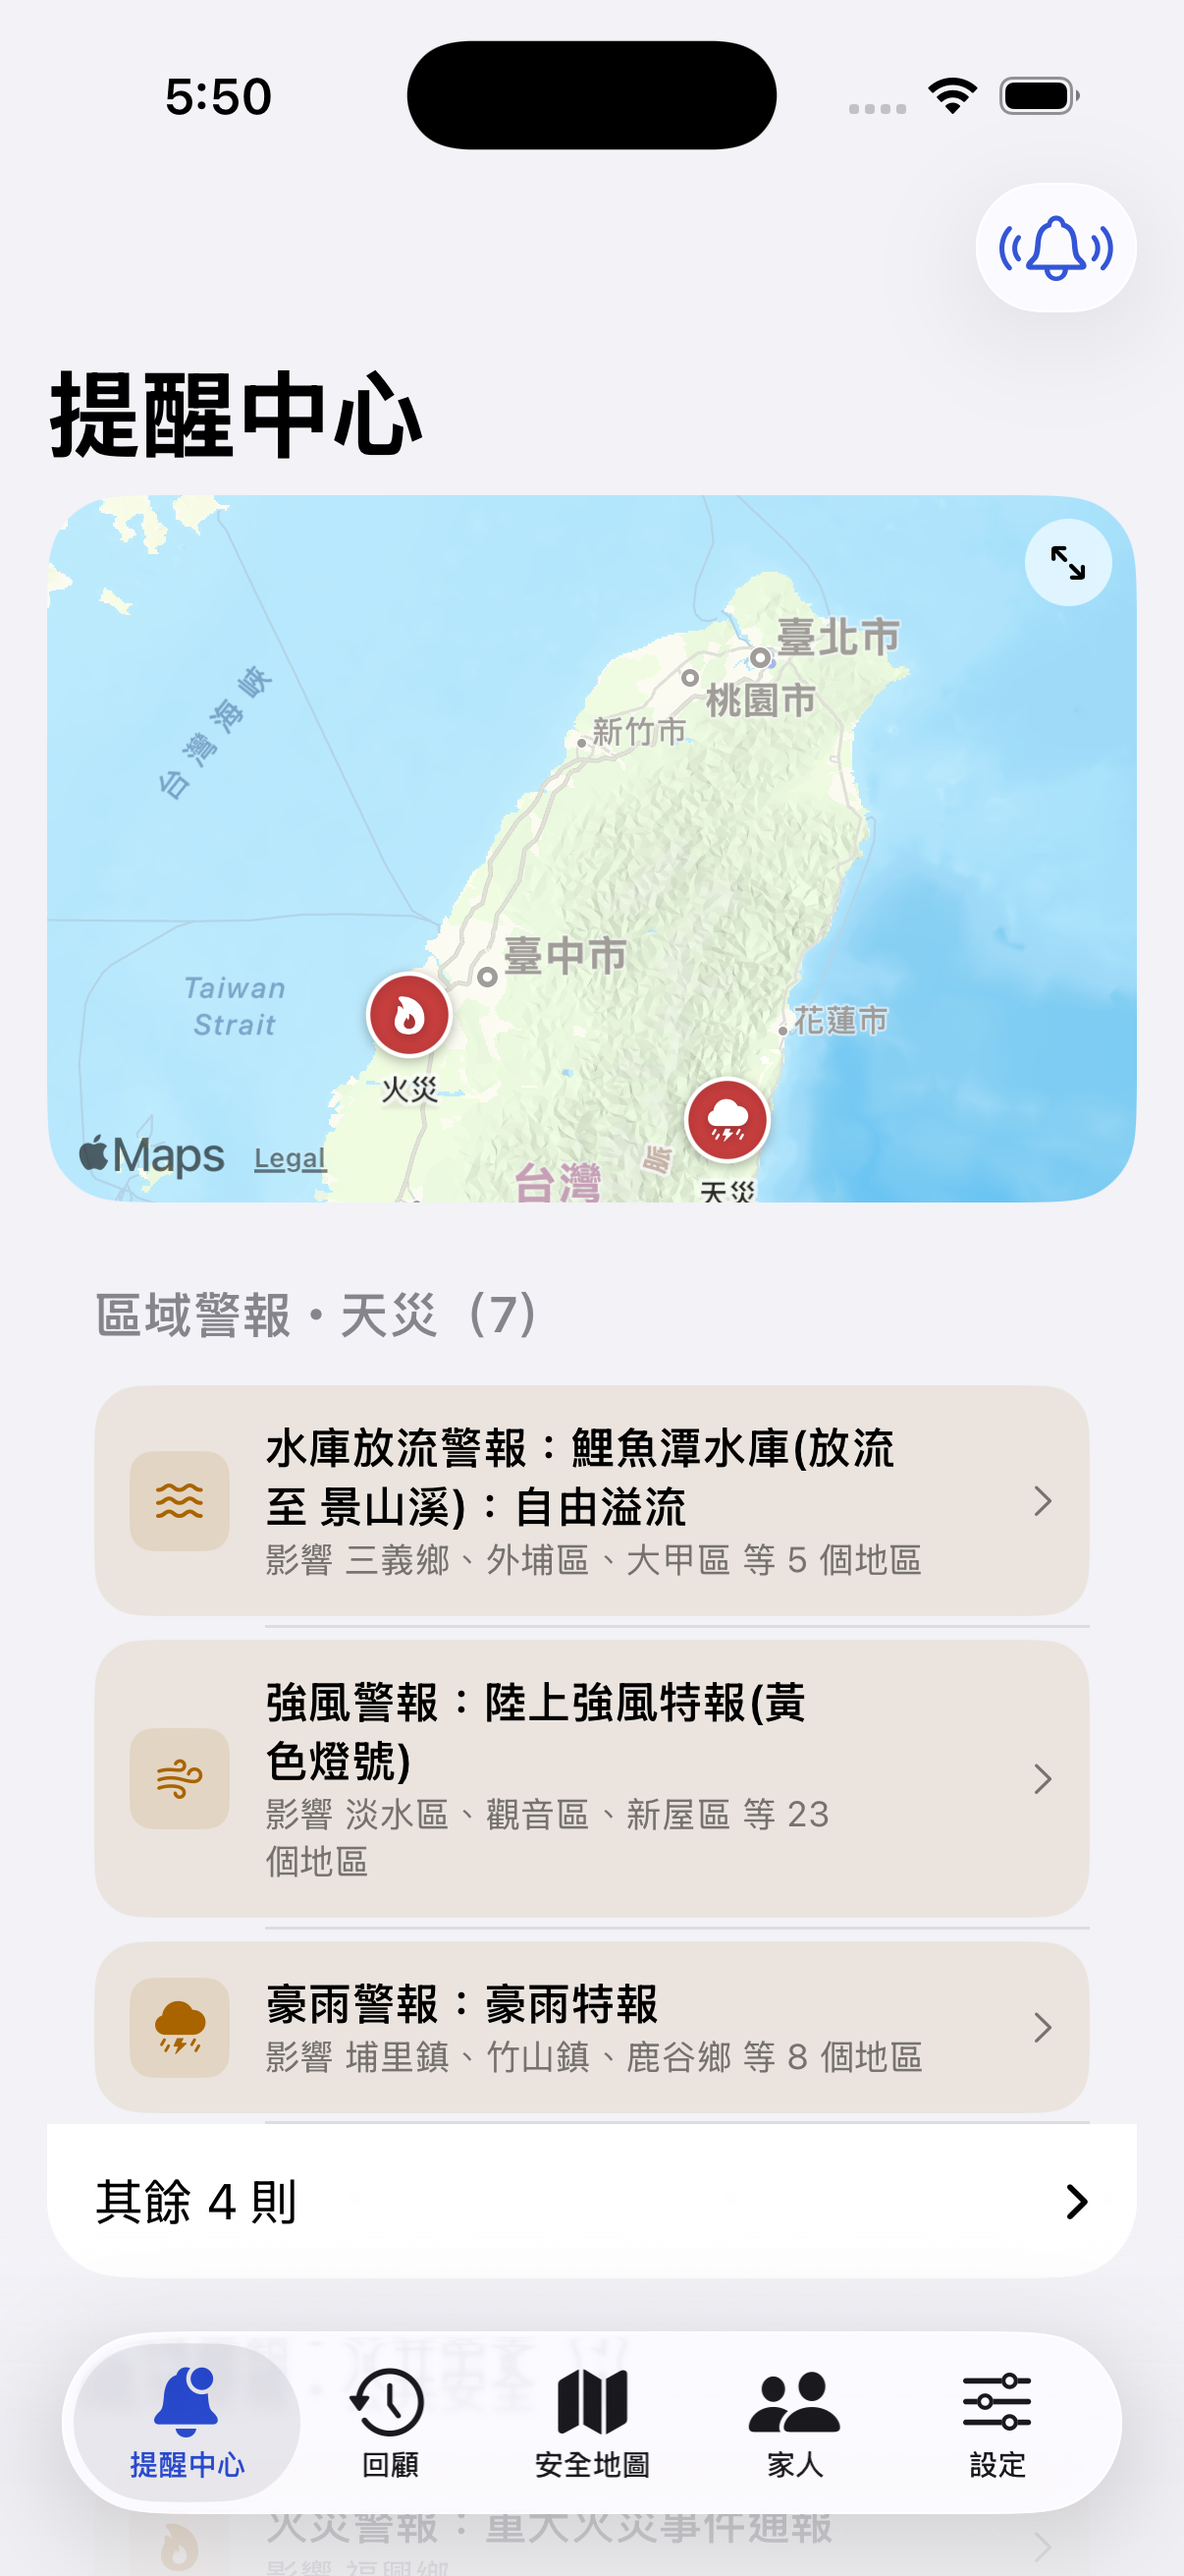
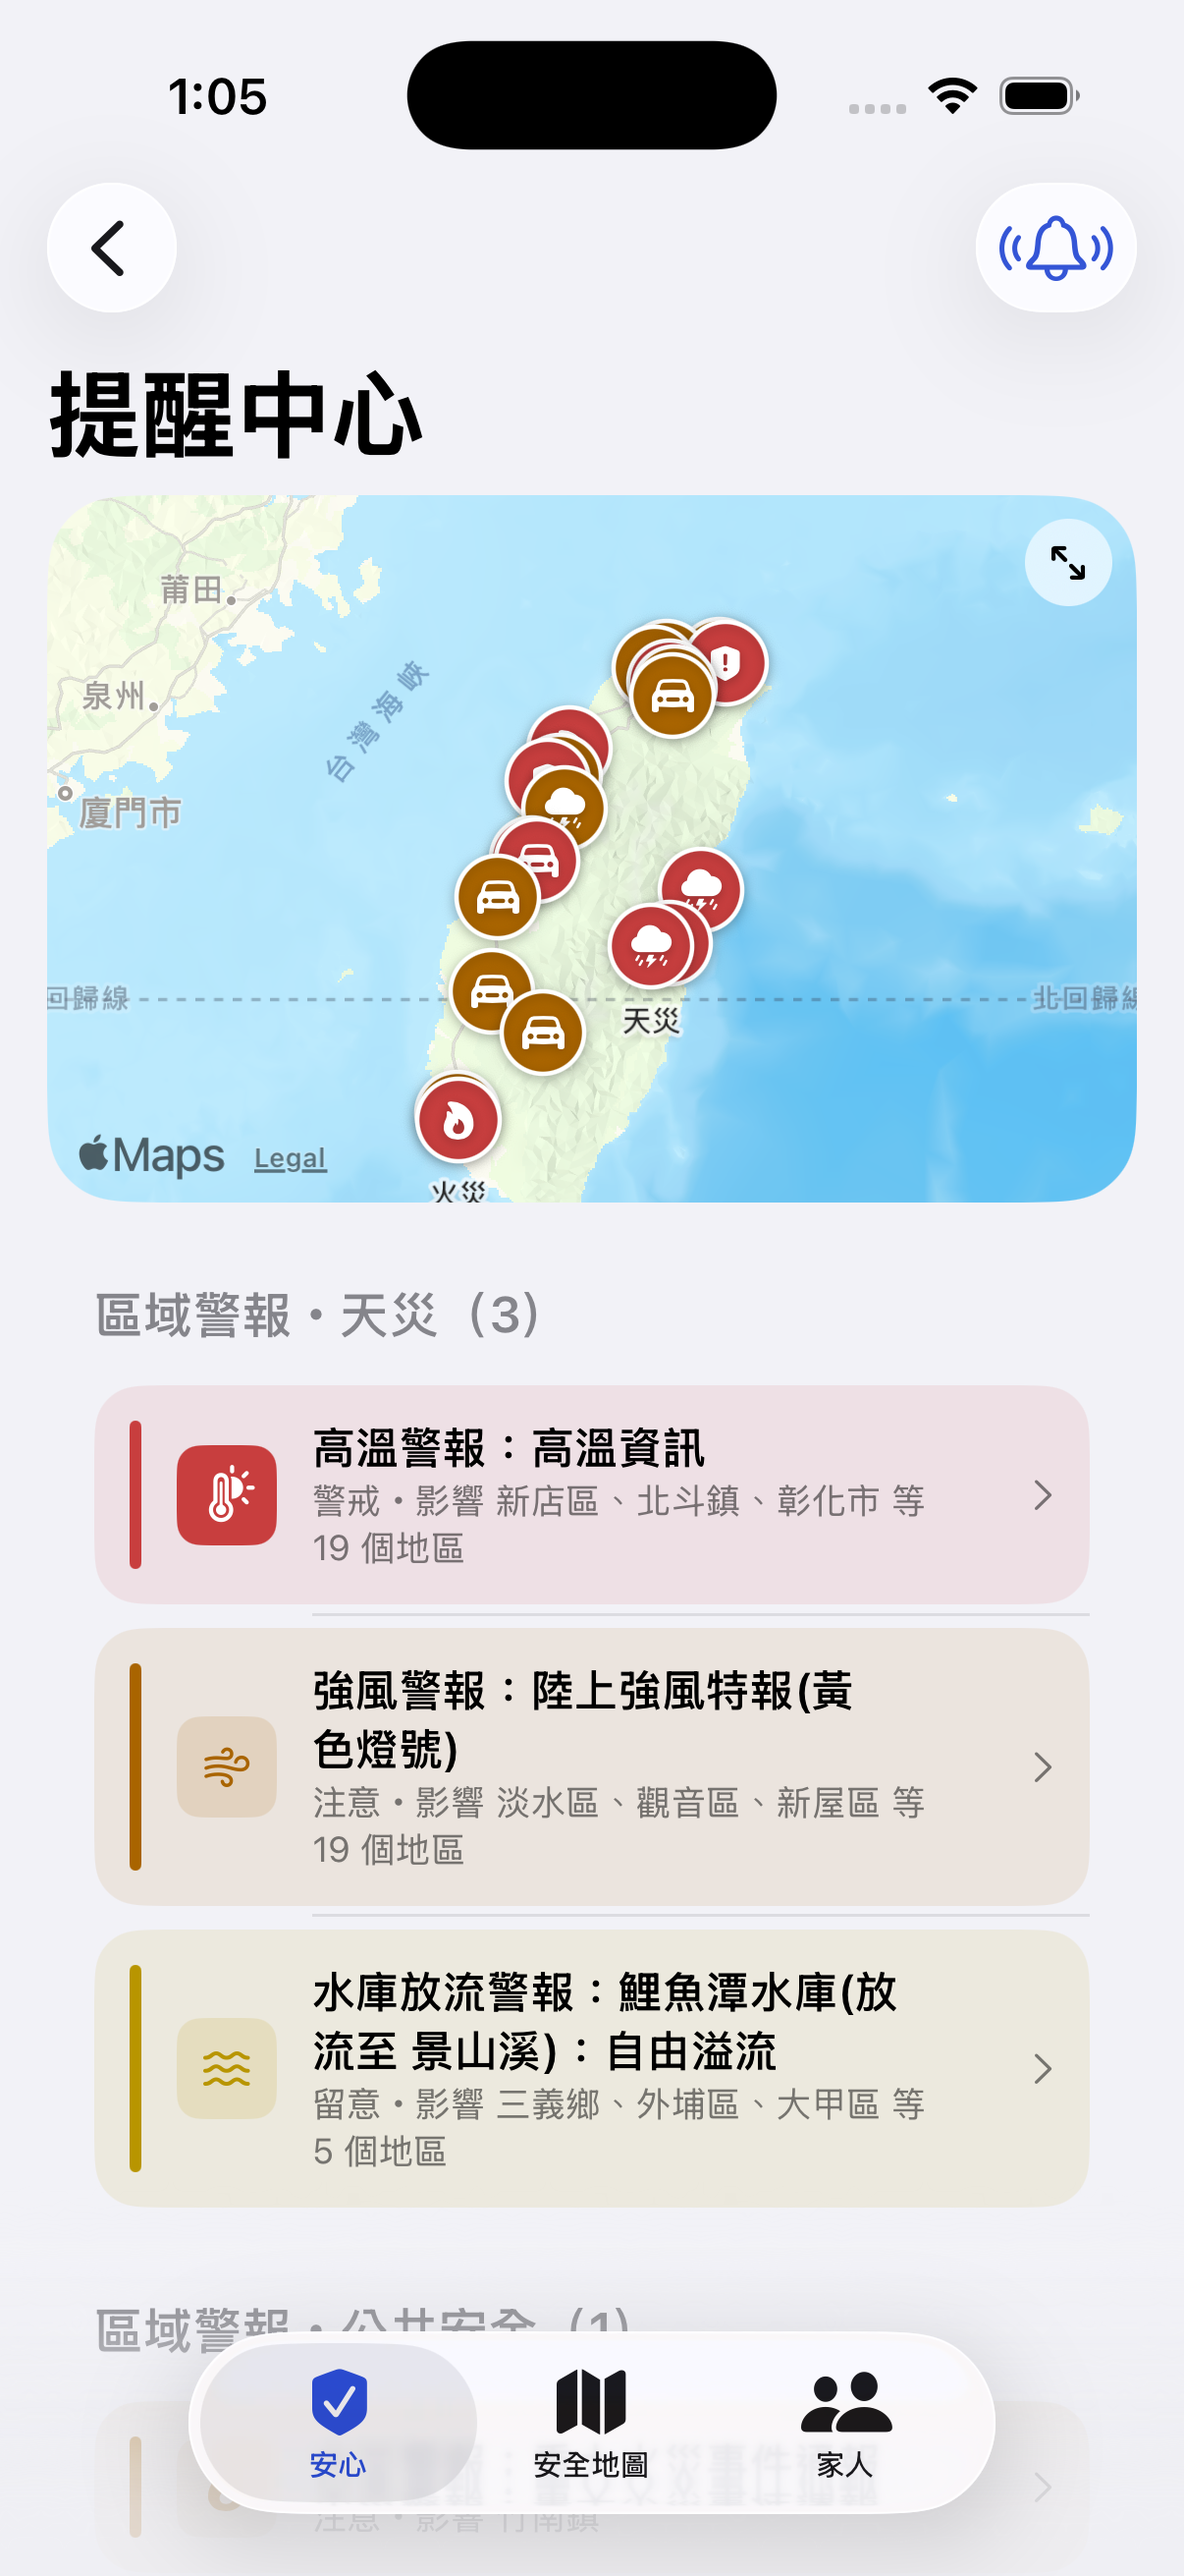
Pitch 頁更新：安心頁領銜、六畫面敘事、新版截圖
- 新增 00-home.png（安心頁）作為第一張敘事截圖——「打開 3 秒就安心」
- 02-alerts / 03-map 換新版（媒體事件收合、地圖狀態膠囊）
- 文案同步：隱私主張改「位置永遠不上傳不分享」、地圖段補膠囊說明
- 05-family 維持舊圖（模擬器未登入 iCloud 拍不出安否回報內容，待實機重拍）
- 04-event-detail.png 仍缺（需實機點開詳情頁）

diff --git a/website/pitch/index.html b/website/pitch/index.html
@@ -267,44 +267,51 @@
         </div>
       </section>
 
-      <!-- 5 張敘事截圖 -->
+      <!-- 6 張敘事截圖 -->
       <section>
-        <p class="eyebrow"><i></i> FIVE SCREENS, ONE STORY</p>
-        <h2>五個畫面，講完整個故事。</h2>
+        <p class="eyebrow"><i></i> SIX SCREENS, ONE STORY</p>
+        <h2>六個畫面，講完整個故事。</h2>
         <p class="shots-note">畫面中的示範事件為 NCDR 實際發布過的官方示警原文，標題主動標示【歷史示範】——不冒充即時警報，是我們的誠實原則。</p>
         <div class="shots">
           <figure class="shot">
+            <div class="frame"><img src="img/00-home.png" alt="安心頁：打開三秒就知道家人平安" /></div>
+            <figcaption>
+              <span class="num">01 / HOME</span>
+              <p><b>打開 3 秒就安心</b>啟動畫面只回答一件事：「家人都平安嗎」。大字狀態、家人回報、背景看守數字——90% 的開啟看完就能放心關掉。</p>
+            </figcaption>
+          </figure>
+          <figure class="shot">
             <div class="frame"><img src="img/01-onboarding.png" alt="新手教學：零位置追蹤承諾" /></div>
             <figcaption>
-              <span class="num">01 / ONBOARDING</span>
-              <p><b>先說清楚界線</b>第一個畫面就承諾：不追蹤任何人的位置，資料只存在這支手機。</p>
+              <span class="num">02 / ONBOARDING</span>
+              <p><b>先說清楚界線</b>第一個畫面就承諾：你的位置永遠不上傳、不分享，資料只存在這支手機。</p>
             </figcaption>
           </figure>
           <figure class="shot">
             <div class="frame"><img src="img/02-alerts.png" alt="提醒中心：需要注意的官方事件" /></div>
             <figcaption>
-              <span class="num">02 / ALERTS</span>
-              <p><b>只提醒要緊的</b>NCDR 真實示警自動分類——落在家人生活圈的才「需要注意」，其餘不打擾。</p>
+              <span class="num">03 / ALERTS</span>
+              <p><b>只提醒要緊的</b>NCDR 真實示警自動分類——落在家人生活圈的才「需要注意」；未驗證的媒體報導預設收合，不搶版面、永不推播。</p>
             </figcaption>
           </figure>
           <figure class="shot">
             <div class="frame"><img src="img/03-map.png" alt="安全地圖：警報塗層、圖例與避難資源" /></div>
             <figcaption>
-              <span class="num">03 / MAP</span>
-              <p><b>看得懂的地圖</b>區域警報用行政區塗層、不用誤導的大頭針；避難所與急救醫院是全國近 6,000 筆真實開放資料。</p>
+              <span class="num">04 / MAP</span>
+              <p><b>看得懂的地圖</b>平時只有一顆「生活圈平安」膠囊，把畫面還給地圖；區域警報用行政區塗層、不用誤導的大頭針，避難所與急救醫院是全國近 6,000 筆真實開放資料。</p>
             </figcaption>
           </figure>
           <figure class="shot">
             <div class="frame"><img src="img/04-event-detail.png" alt="事件詳情：為何收到的理由" /></div>
             <figcaption>
-              <span class="num">04 / WHY</span>
+              <span class="num">05 / WHY</span>
               <p><b>理由透明</b>每一則提醒都說得出「為何收到」——來源、可信度、跟哪個生活圈有關，一行講清楚。</p>
             </figcaption>
           </figure>
           <figure class="shot">
             <div class="frame"><img src="img/05-family.png" alt="家人：安否回報與已讀回條" /></div>
             <figcaption>
-              <span class="num">05 / FAMILY</span>
+              <span class="num">06 / FAMILY</span>
               <p><b>平安有回音</b>長輩一鍵回報「我平安」，全家透過 iCloud 即時看到，已讀回條讓關心有了回音。</p>
             </figcaption>
           </figure>
